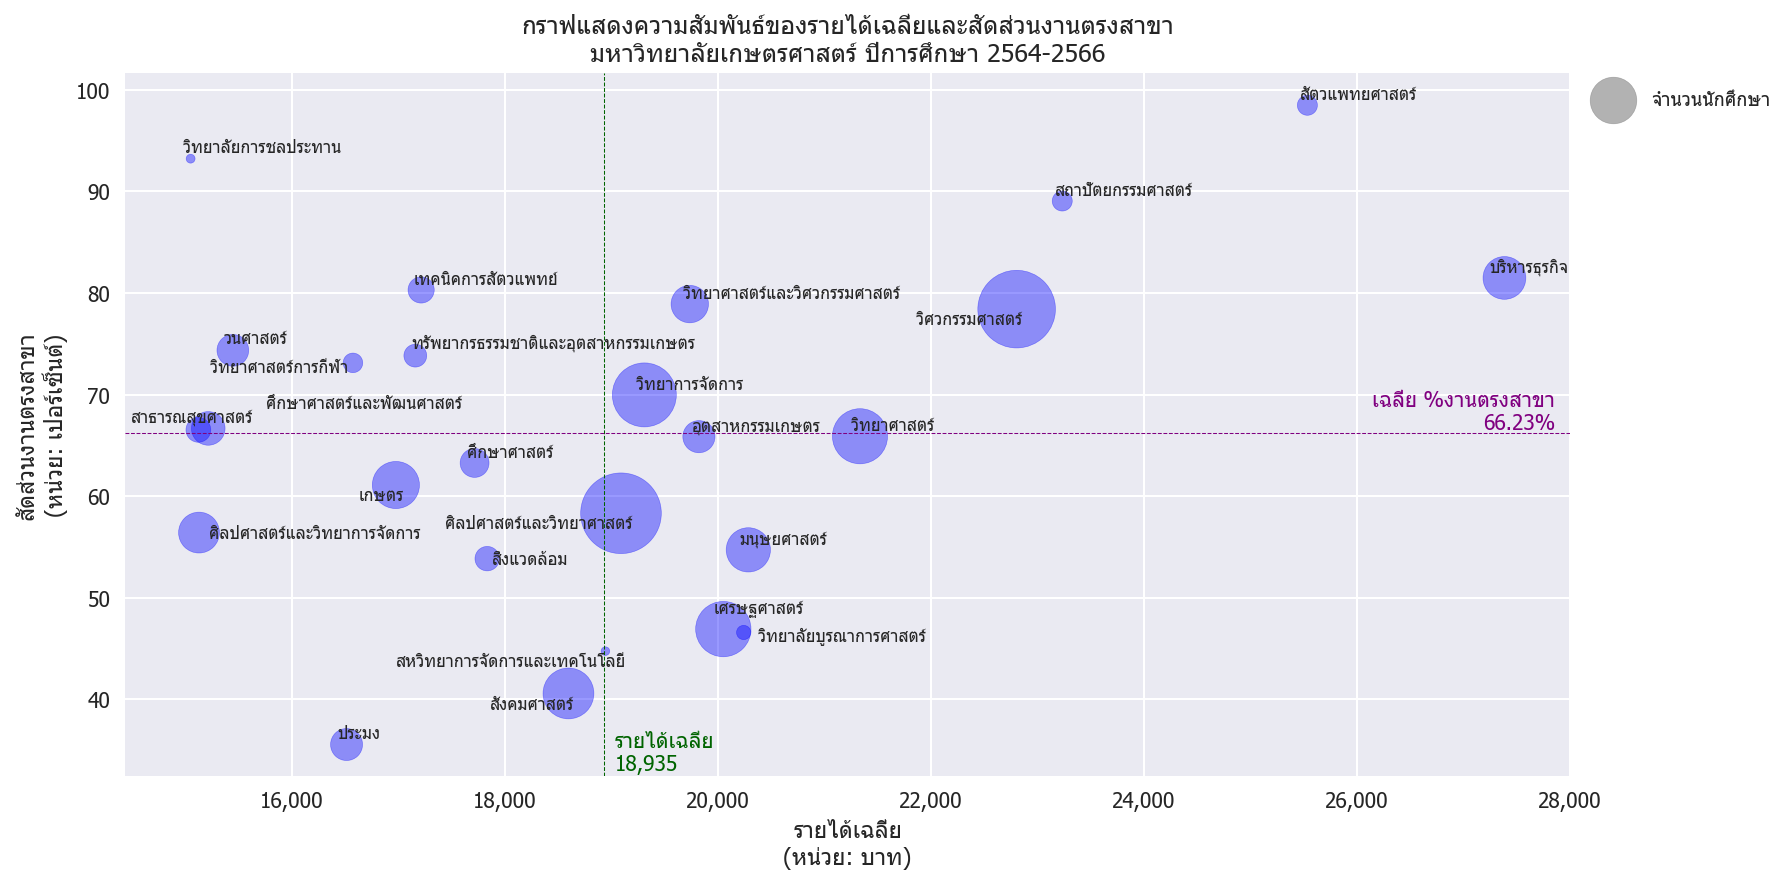
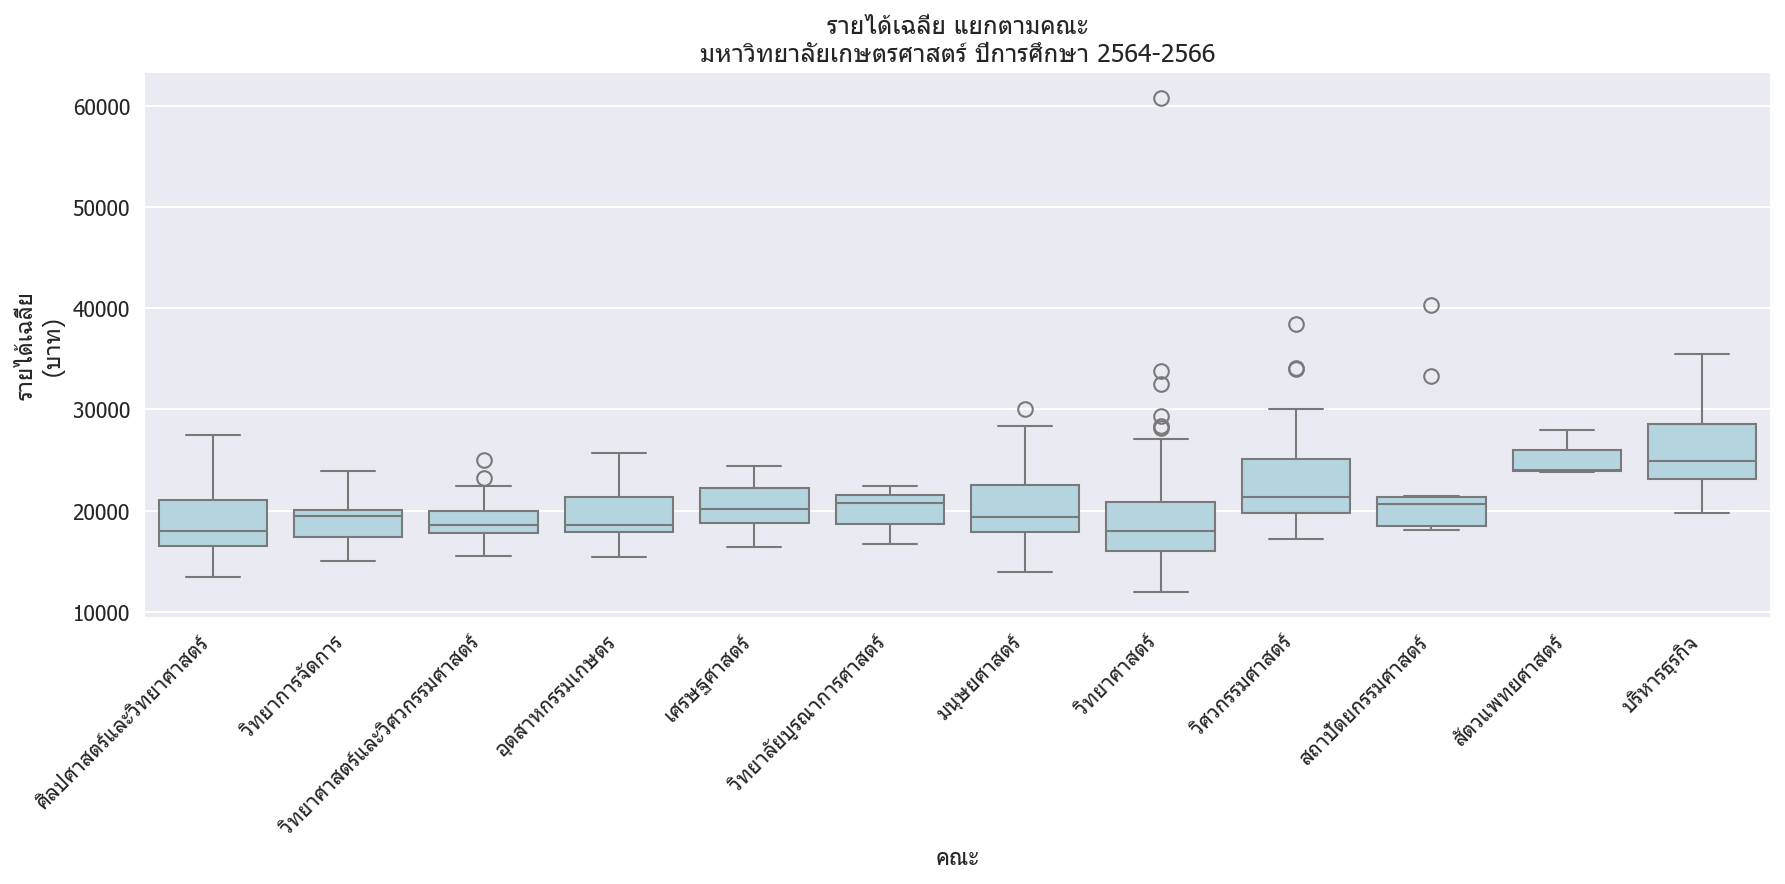
update

diff --git a/README.md b/README.md
@@ -309,7 +309,7 @@ Data Source: https://web.planning.ku.ac.th/Download/work/work_index.htm
 </table>
 
 ---
-การศึกษาข้อมูลเชิงเปรียบเทียบรายคณะในช่วงปีการศึกษา 2564–2566 มุ่งเน้นการวิเคราะห์ 3 มิติหลัก ดังที่แสดงในกราฟที่ 2-5 ได้แก่:
+การศึกษาข้อมูลเชิงเปรียบเทียบรายคณะในช่วงปีการศึกษา 2564–2566 มุ่งเน้นการวิเคราะห์ 3 มิติหลัก ดังที่แสดงในกราฟที่ 2-5.1 และ 2-5.2 ได้แก่:
 - รายได้เฉลี่ยของบัณฑิตจบใหม่
 พบว่า บัณฑิตที่สำเร็จการศึกษาในช่วงเวลาดังกล่าวมีรายได้เฉลี่ยอยู่ที่ 18,935 บาทต่อเดือน ซึ่งสะท้อนถึงระดับค่าตอบแทนเริ่มต้นในตลาดแรงงานสำหรับผู้จบใหม่ โดยอาจมีความแตกต่างตามสาขาวิชาและกลุ่มธุรกิจที่เกี่ยวข้อง
 - สัดส่วนการทำงานตรงสาขาวิชา
@@ -318,11 +318,21 @@ Data Source: https://web.planning.ku.ac.th/Download/work/work_index.htm
 
 การพิจารณาจำนวนผู้สำเร็จการศึกษาในแต่ละคณะช่วยให้สามารถประเมินความหนาแน่นของกำลังคนในแต่ละสาขา และวิเคราะห์ความอิ่มตัวของตลาดแรงงานในบางกลุ่มวิชา
 
+
 <table align="center">
   <tr>
     <td align="center">
       <img src="./images/02_salary.png" /><br>
-      <em>กราฟที่ 2-5 กราฟแสดงความสัมพันธ์ของรายได้เฉลี่ยและสัดส่วนงานตรงสาขา<br>มหาวิทยาลัยเกษตรศาสตร์ ปีการศึกษา 2564-2566</em>
+      <em>กราฟที่ 2-5.1  กราฟแสดงรายได้เฉลี่ยแบ่งตามคณะ สูงสุด 12 อันดับแรก<br>มหาวิทยาลัยเกษตรศาสตร์ ปีการศึกษา 2564-2566</em>
+    </td>
+  </tr>
+</table>
+
+<table align="center">
+  <tr>
+    <td align="center">
+      <img src="./images/02_salary_compare.png" /><br>
+      <em>กราฟที่ 2-5.2 กราฟแสดงความสัมพันธ์ของรายได้เฉลี่ยและสัดส่วนงานตรงสาขา<br>มหาวิทยาลัยเกษตรศาสตร์ ปีการศึกษา 2564-2566</em>
     </td>
   </tr>
 </table>
